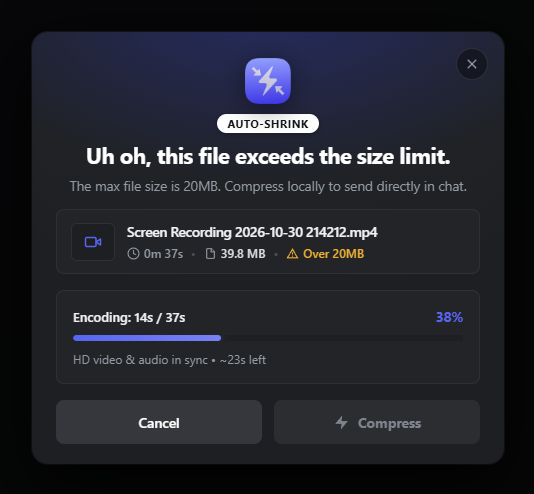
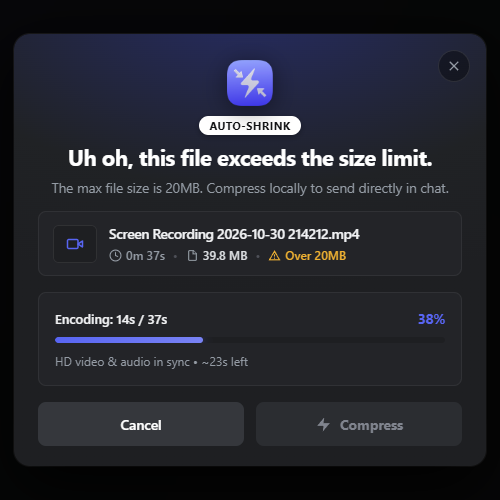
fix(docs): deduplicate preview section and align screenshots to matching 500x500 dimensions

diff --git a/README.md b/README.md
@@ -3,12 +3,6 @@
 > **Automatically catch oversized videos and audio on Discord Web and shrink them under 20MB right in your browser.**  
 > *100% Client-Side • Zero Cloud Uploads • Open Source (GPLv3) • Zero Telemetry*
 
-## 📸 Preview
-
-| Compression Options | Live Encoding |
-|:-:|:-:|
-| ![ShrinkCord modal with target size and quality options](assets/preview.png) | ![ShrinkCord real-time encoding progress](assets/progress.png) |
-
 [![Manifest V3](https://img.shields.io/badge/Chrome%20Extension-Manifest%20V3-blue?style=flat-square)](https://developer.chrome.com/docs/extensions/mv3/intro/)
 [![License: GPL v3](https://img.shields.io/badge/License-GPLv3-green.svg?style=flat-square)](LICENSE)
 [![Privacy](https://img.shields.io/badge/Privacy-100%25%20Local-success?style=flat-square)](#privacy--security)
@@ -16,11 +10,12 @@
 <br/>
 
 <p align="center">
-  <img src="assets/preview.png" alt="ShrinkCord Modal Interface" width="49%" style="border-radius: 10px;" />
-  <img src="assets/progress.png" alt="ShrinkCord Live Encoding" width="49%" style="border-radius: 10px;" />
+  <img src="assets/preview.png" alt="ShrinkCord Setup Modal" width="48%" />
+  &nbsp;&nbsp;
+  <img src="assets/progress.png" alt="ShrinkCord Live Transcoding" width="48%" />
 </p>
 <p align="center">
-  <em>Left: Auto-detection with size & resolution presets • Right: Live client-side transcoding</em>
+  <em>Left: Auto-detection with size &amp; resolution presets • Right: Live client-side transcoding with synchronized AV</em>
 </p>
 
 ---
